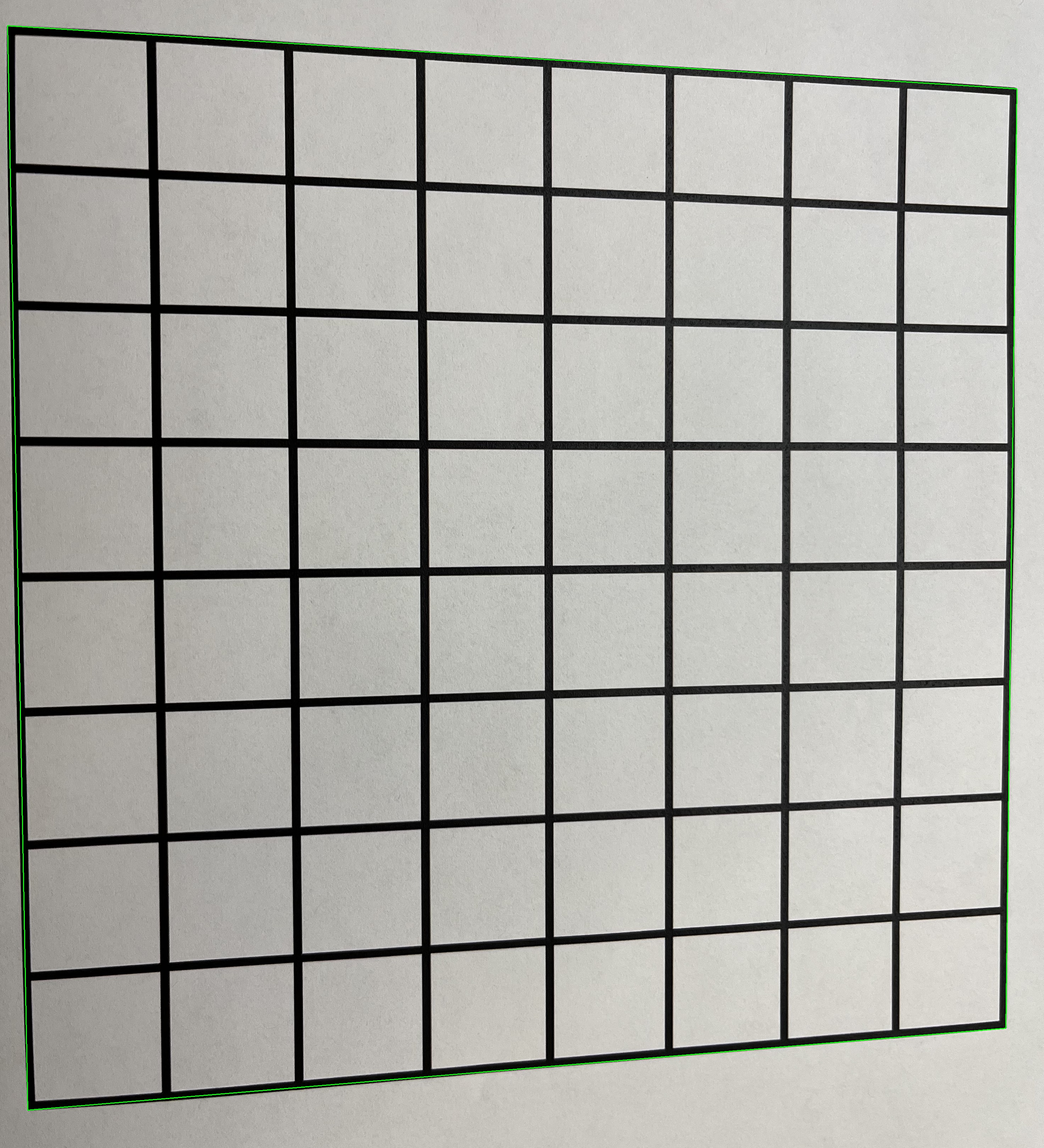
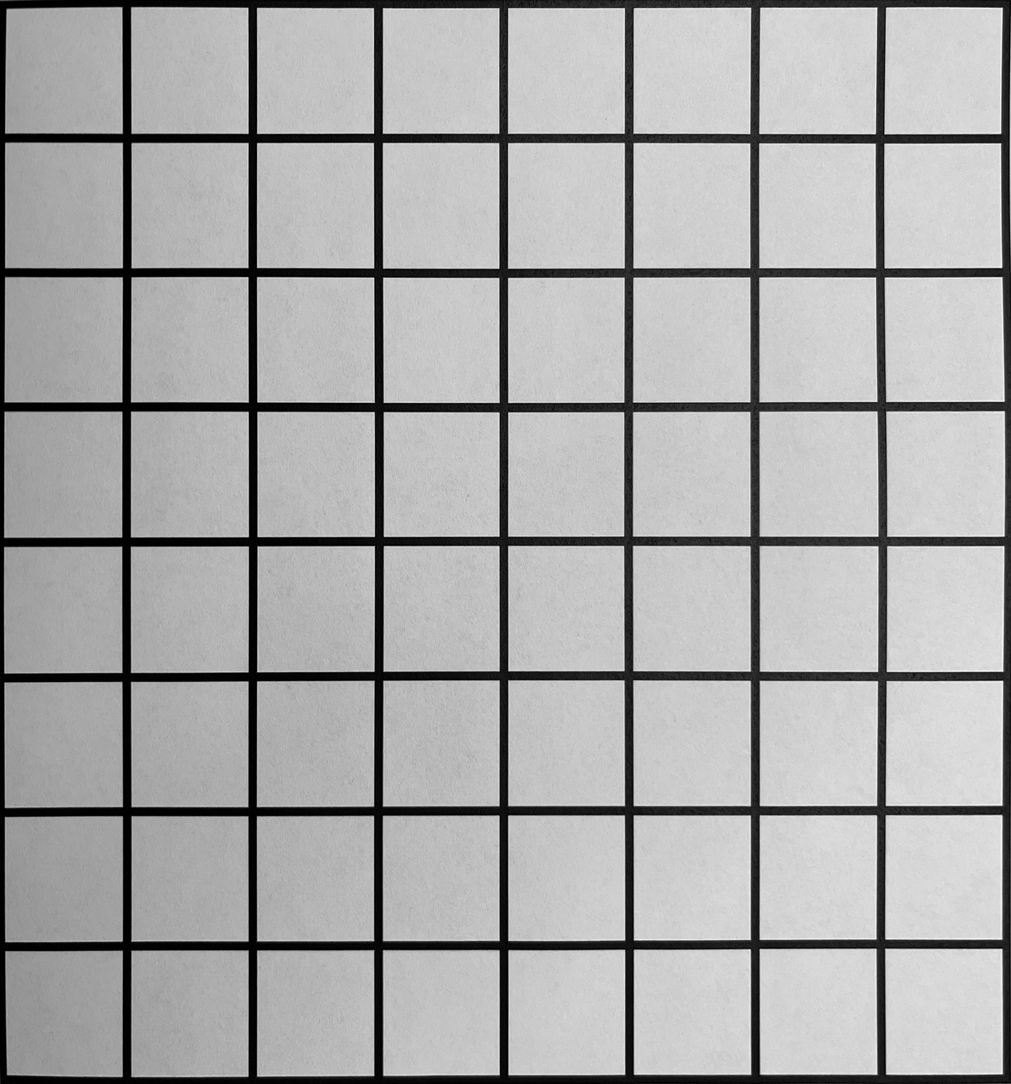
Finish detect_grid function

Changed region(s): [[0.0, 0.0, 1.0, 1.0]]

diff --git a/beatboard.py b/beatboard.py
@@ -3,6 +3,7 @@ import cv2 as cv
 import pygame as pg
 import numpy as np
 import imutils
+from frame_ops import FrameOperations
 
 notes = [
     "C", "C#", "D", "D#", "E", "F", "F#", "G", "G#", "A", "A#", "B", "C"]
@@ -29,10 +30,25 @@ class Beatboard():
 
     def __init__(self):
         self.detector = HandDetector(detectionCon=0.8)
+        self.FRAME_OPS = FrameOperations()
         self.old_freq = 0
 
-    def detect_squares(self, img):
-        # https://learnopencv.com/edge-detection-using-opencv/
+    def extract_shape(self, cell):
+        """
+        Parameters:
+        -
+        Returns:
+        -
+        """
+        pass
+
+    def detect_grid(self, img):
+        """
+        Parameters:
+        - img: image containing grid
+        Returns:
+        - 2-tuple of grid in both RGB and grayscale
+        """
 
         # Grayscale and Gaussian Blur
         img_gray = cv.cvtColor(img, cv.COLOR_BGR2GRAY)
@@ -55,13 +71,12 @@ class Beatboard():
 
         # Find Grid Outline
         gridOutline = None
-        # loop over the contours
+        # Loop over the contours
         for c in contours:
-            # approximate the contour
+            # Approximate the contour
             peri = cv.arcLength(c, True)
             approx = cv.approxPolyDP(c, 0.02 * peri, True)
-            # if our approximated contour has four points, then we can
-            # assume we have found the outline of the puzzle
+            # If contour has 4 points, assume we have found grid outline
             if len(approx) == 4:
                 gridOutline = approx
                 break
@@ -69,12 +84,13 @@ class Beatboard():
         if gridOutline is None:
             raise Exception(
                 ("Could not find grid outline. Debug thresholding and contour steps."))
-        output = img.copy()
-        cv.drawContours(output, [gridOutline], -1, (0, 255, 0), 2)
-        cv.imshow("Puzzle Outline", output)
-        cv.waitKey(0)
 
-        return output
+        grid = self.FRAME_OPS.four_point_transform(
+            img, gridOutline.reshape(4, 2))
+        gray_grid = self.FRAME_OPS.four_point_transform(
+            img_gray, gridOutline.reshape(4, 2))
+
+        return (grid, gray_grid)
 
 
 """
@@ -88,4 +104,10 @@ for c in contours:
 # cv.drawContours(img_copy, contours, -1, (0, 255, 0), 2)
 cv.imshow("Puzzle Outline", img_copy)
 cv.waitKey(0)
+
+Grid out
+        # output = img.copy()
+        # cv.drawContours(output, [gridOutline], -1, (0, 255, 0), 2)
+        # cv.imshow("Puzzle Outline", output)
+        # cv.waitKey(0)
 """

diff --git a/frame_ops.py b/frame_ops.py
@@ -7,18 +7,12 @@ import numpy as np
 class FrameOperations():
 
     def __init__(self):
-        self.CWD = os.getcwd()
-        self.RES_F = os.path.join(self.CWD, 'resources')
-        self.FILTER_F = os.path.join(self.RES_F, 'FILTERS')
-        self.SPEED_FILTER = cv.imread(os.path.join(self.FILTER_F, "SPEED.png"))
-        self.CONT_FILTER = cv.imread(
-            os.path.join(self.FILTER_F, "CONTINUE.png"))
+        pass
 
-    def order_points(pts):
+    def order_points(self, pts):
         # Initialize a list of coordinates that will be ordered as followed:
         # top-left, top-right, bottom-right, bottom-left
         rect = np.zeros((4, 2), dtype="float32")
-
         # Top-left point will have smallest sum, bottom-right will have largest sum
         s = pts.sum(axis=1)
         rect[0] = pts[np.argmin(s)]
@@ -30,9 +24,9 @@ class FrameOperations():
         rect[3] = pts[np.argmax(diff)]
         return rect
 
-    def four_point_transform(image, pts):
+    def four_point_transform(self, image, pts):
         # Obtain a consistent order of the points and unpack them individually
-        rect = order_points(pts)
+        rect = self.order_points(pts)
         (tl, tr, br, bl) = rect
         # Compute the width of the new image: max distance btw b-right and b-left or the t-right and t-left x-coords
         widthA = np.sqrt(((br[0] - bl[0]) ** 2) + ((br[1] - bl[1]) ** 2))
@@ -50,8 +44,8 @@ class FrameOperations():
             [maxWidth - 1, maxHeight - 1],
             [0, maxHeight - 1]], dtype="float32")
         # Compute the perspective transform matrix and apply it
-        M = cv2.getPerspectiveTransform(rect, dst)
-        warped = cv2.warpPerspective(image, M, (maxWidth, maxHeight))
+        M = cv.getPerspectiveTransform(rect, dst)
+        warped = cv.warpPerspective(image, M, (maxWidth, maxHeight))
         return warped
 
     def average_blur(self, frame, kernel_size):
@@ -65,13 +59,10 @@ class FrameOperations():
     def convert_scale_abs(self, frame, alpha, beta):
         """alpha must be float, beta must be int!"""
         # alpha for contrast control, beta for brightness control
-
         conversion = cv.convertScaleAbs(frame, alpha=alpha, beta=beta)
-
         return conversion
 
     def contrast_brightness(self, frame, brightness, contrast):
-
         conversion = np.int16(frame)
         conversion = conversion * (contrast/127+1) - contrast + brightness
         conversion = np.clip(conversion, 0, 255)

diff --git a/vid_manager.py b/vid_manager.py
@@ -1,6 +1,5 @@
 import cv2 as cv
 from frame_ops import FrameOperations
-from distance_between import DistanceEstimator
 from trombone import Trombone
 from beatboard import Beatboard
 import pygame as pg
@@ -9,7 +8,6 @@ import pygame as pg
 class VideoManager():
 
     def __init__(self):
-        self.DISTANCE_ESTIMATOR = DistanceEstimator()
         self.TROMBONE = Trombone()  # trombone
         self.BEATBOARD = Beatboard()  # piano
         self.FRAME_OPS = FrameOperations()
@@ -18,8 +16,8 @@ class VideoManager():
     def estimate_img(self):
 
         img = cv.imread('grid.jpeg')
-        frame = self.BEATBOARD.detect_squares(img)
-        cv.imwrite('grid_lines.jpg', frame)
+        grid_rgb, grid_gray = self.BEATBOARD.detect_grid(img)
+        cv.imwrite('grid_lines.jpg', grid_gray)
 
     def estimate_vid(self, webcam_id=0):
 
@@ -40,7 +38,7 @@ class VideoManager():
                 self.FIRST = False
 
             # frame = self.TROMBONE.detect(frame)
-            frame = self.BEATBOARD.detect_squares(frame)
-            cv.imshow('frame', frame)
+            grid_rgb, grid_gray = self.BEATBOARD.detect_grid(img)
+            cv.imshow('frame', grid_rgb)
             if cv.waitKey(1) & 0xFF == ord('q'):
                 break

diff --git a/README.md b/README.md
@@ -9,3 +9,7 @@ Three shapes can be placed in a grid square and will produce a musical note from
 Uses hand detection to calculate distance between hands.
 Similar to a trombone, will play notes depending on this distance.
 Keep hands open to play, close into a fist to cut off sound.
+
+## Resources
+
+https://learnopencv.com/edge-detection-using-opencv/
